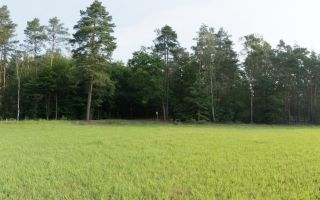
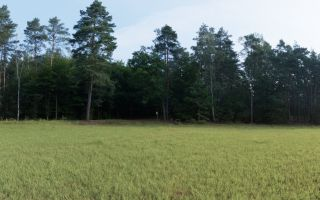
Campsite photo: calmer, warmer grass and a bluer sky
The photo is tone-mapped darker, the grass less saturated and a little warmer,
and the sky cooler. The file name carries a version so installed apps fetch
the new picture instead of their saved copy.

Claude-Session: https://claude.ai/code/session_01PAUMvKLySvU3U5zRYagHqp

diff --git a/index.html b/index.html
@@ -292,7 +292,7 @@ body.dragging,body.dragging *{user-select:none!important;-webkit-user-select:non
 .dopt.busy .dname::after{content:' …'}
 .dsw{display:block;width:100%;aspect-ratio:16/10;border-radius:6px}
 .dsw.studio{background:linear-gradient(#1c211e 0 52%,#2a312c 52% 100%)}
-.dsw.camp{background:url(env/camp-thumb.jpg) center/cover,linear-gradient(#9cc0dc 0,#d9e6ee 46%,#3d5a31 47%,#7a9a52 100%)}
+.dsw.camp{background:url(env/camp-thumb.jpg?v=2) center/cover,linear-gradient(#9cc0dc 0,#d9e6ee 46%,#3d5a31 47%,#7a9a52 100%)}
 @media (max-width:760px){.decor:not(.closed){width:168px}}
 .scenes.closed .scenetab,.side.closed .sidetab{height:auto;padding:12px 0 14px}
 /* the main controls, always at the bottom middle */
@@ -1215,7 +1215,7 @@ function setEnv(n){
   envName=n;envFailed=false;try{localStorage.setItem('atelier-decor',n)}catch(_){}
   if(n==='camp'&&!campTex&&!campLoading){
     campLoading=true;
-    new THREE.TextureLoader().load('env/camp.jpg',tex=>{
+    new THREE.TextureLoader().load('env/camp.jpg?v=2',tex=>{
       tex.minFilter=THREE.LinearFilter;tex.generateMipmaps=false;tex.wrapS=THREE.RepeatWrapping; /* no mipmaps: they would draw a seam where the photo wraps */
       tex.anisotropy=renderer.capabilities.getMaxAnisotropy();
       campTex=tex;sky.material.uniforms.map.value=tex;campLoading=false;applyEnv();if(typeof scheduleThumb==='function')scheduleThumb();
